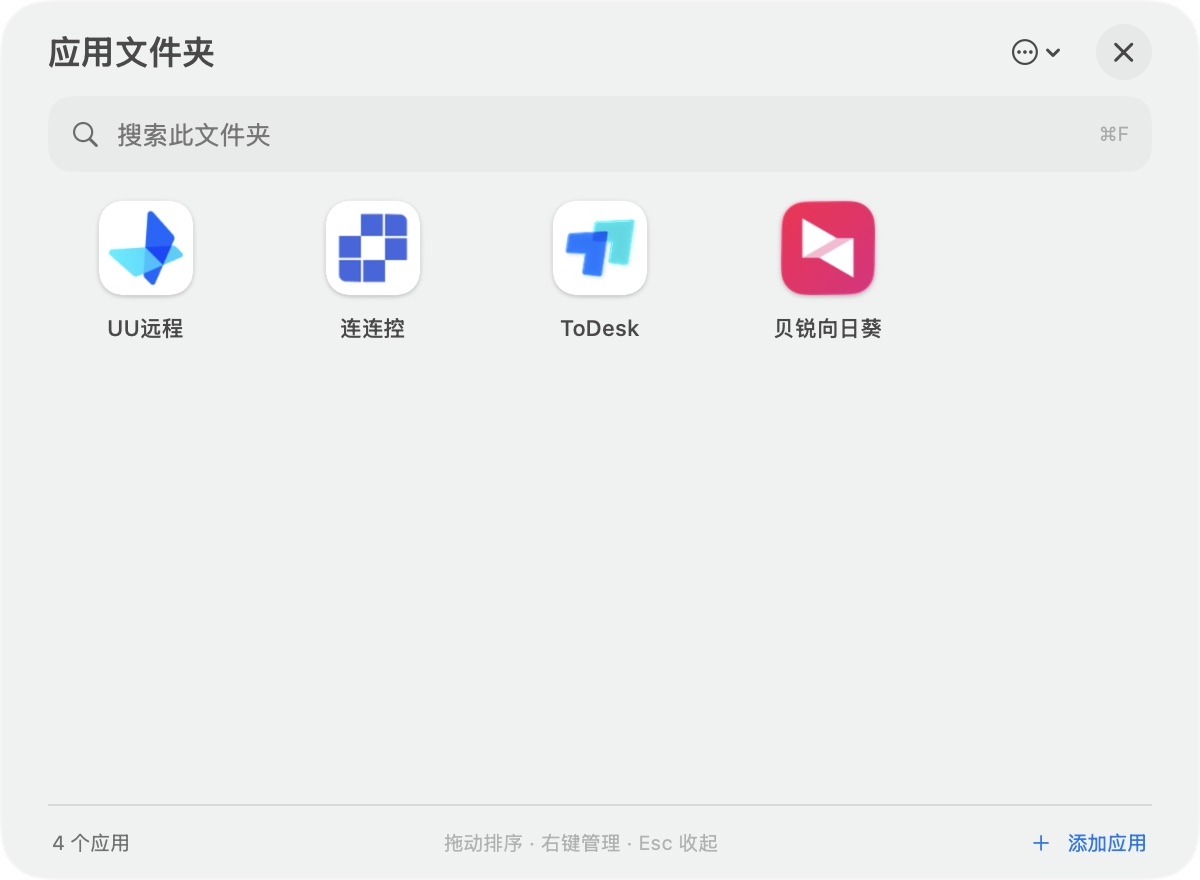
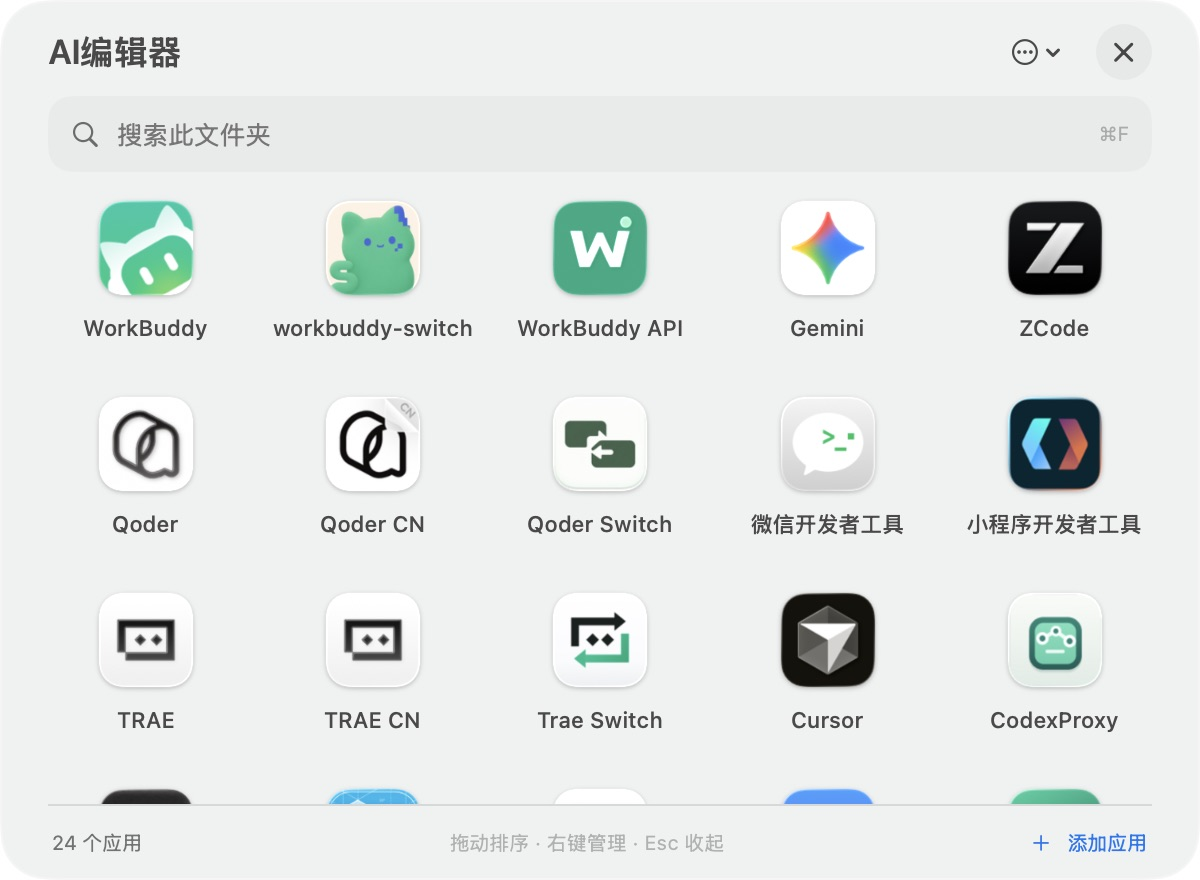
docs: expand DockNest usage guide and refresh screenshots

diff --git a/README.md b/README.md
@@ -8,7 +8,9 @@ DockNest 是面向 **macOS 26** 的原生应用文件夹工具，使用 SwiftUI 
 
 ## 界面预览
 
-![DockNest 应用网格与拖拽整理入口](docs/images/app.png)
+以下截图来自已安装的 DockNest。「AI编辑器」是一个已命名的独立文件夹，窗口上方可以搜索，底部可以添加应用。
+
+![名为 AI编辑器的 DockNest 文件夹，显示搜索框、应用网格和添加应用按钮](docs/images/app.png)
 
 ## 主要功能
 
@@ -53,6 +55,18 @@ flowchart TD
 **系统要求：macOS 26 或更新版本，Apple Silicon（arm64）。** 当前发布包使用 ad-hoc 签名，尚未经过 Apple Developer ID 签名和公证；如被系统阻止，请在确认下载来源后，到「系统设置 → 隐私与安全性」查看允许打开选项。
 
 为兼容已有版本，安装程序名仍为 `DockFolder.app`，数据继续保存在 `~/Library/Application Support/DockFolder/`。已有多开入口请通过「管理多开文件夹 → 全部更新」升级。具体恢复方式、快捷键和图标说明见 [完整使用说明](docs/USAGE.md)。
+
+## 日常怎么用
+
+**把不同用途的应用分开。** 例如，先用 `… → 修改应用名称…` 把当前文件夹命名为「AI编辑器」，再通过 `… → 新建独立文件夹…` 创建「设计工具」。分别把两个图标固定到 Dock，就能从各自的图标打开对应列表。需要改名时，保存后只会重新打开当前文件夹，原有应用与顺序会保留。
+
+![修改应用名称的弹窗，显示当前名称与保存按钮](docs/images/rename.png)
+
+**添加和调整位置。** 从 Finder 把应用或应用替身拖进窗口，也可以直接拖到目标文件夹的 Dock 图标。整理顺序时，按住网格中的图标，拖到目标位置再松手。拖到网格边缘会自动滚动，方便跨行移动。右键图标可以移到最前、在 Finder 中显示或从列表移除。
+
+**搜索和启动。** 按 `⌘F` 聚焦搜索框，输入应用名后按回车打开第一项。按 `Esc` 收起面板，下次点击 Dock 图标即可再打开。Dock 文件夹图标会展示列表中前四个应用的缩略图，可以把常用应用拖到前面，方便辨认。
+
+**找回和备份。** 若某个独立文件夹的入口被移走或误删，可在 `… → 管理多开文件夹…` 中选择「恢复并打开」。如果要备份或迁移应用列表，从 `… → 设置…` 导出 JSON，导入时可选择合并或替换当前列表。
 
 ## 关于与更新
 
